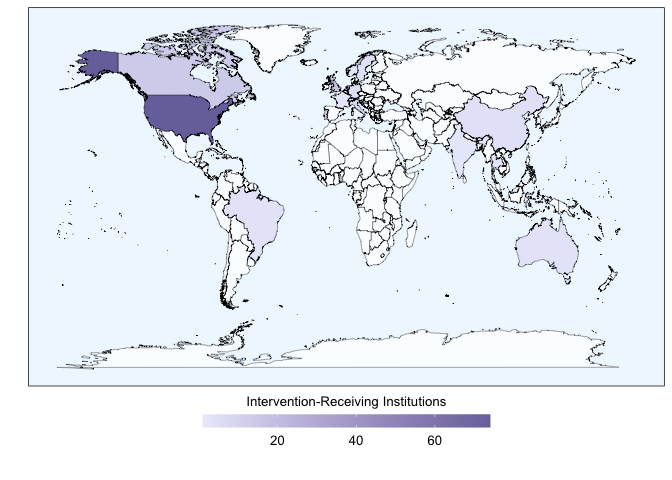
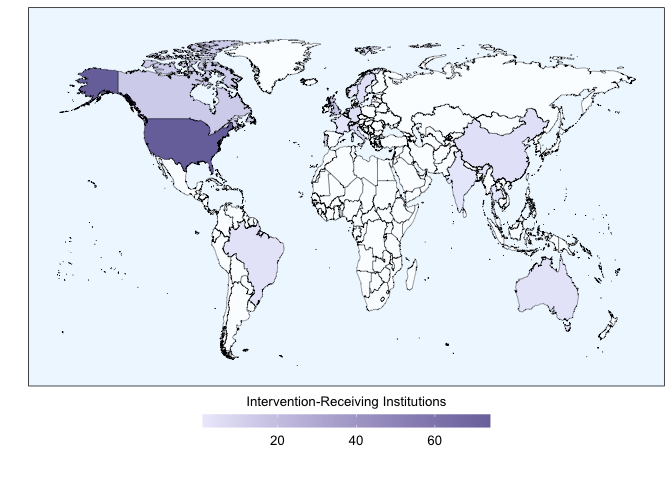
modified y-axis for global-frequencies choropleth

diff --git a/scripts/cleaning-script.md b/scripts/cleaning-script.md
@@ -789,6 +789,7 @@ global_frequencies <- aggregated_data %>%
   ggplot(aes(x=long,y=lat,fill=count,group=group)) + 
   geom_polygon(color="black",linewidth=0.125,alpha=0.75) +
   scale_fill_gradient(low="lavender",high="slateblue4",na.value="white",name="Intervention-Receiving Institutions",guide=guide_colourbar(reverse=FALSE,alpha=0.75,title.position="top",title.hjust=0.5,limits=c(1,74))) +
+  scale_y_continuous(limits=c(-60,90)) + 
   xlab("") + 
   ylab("") +
   labs(caption="") +
